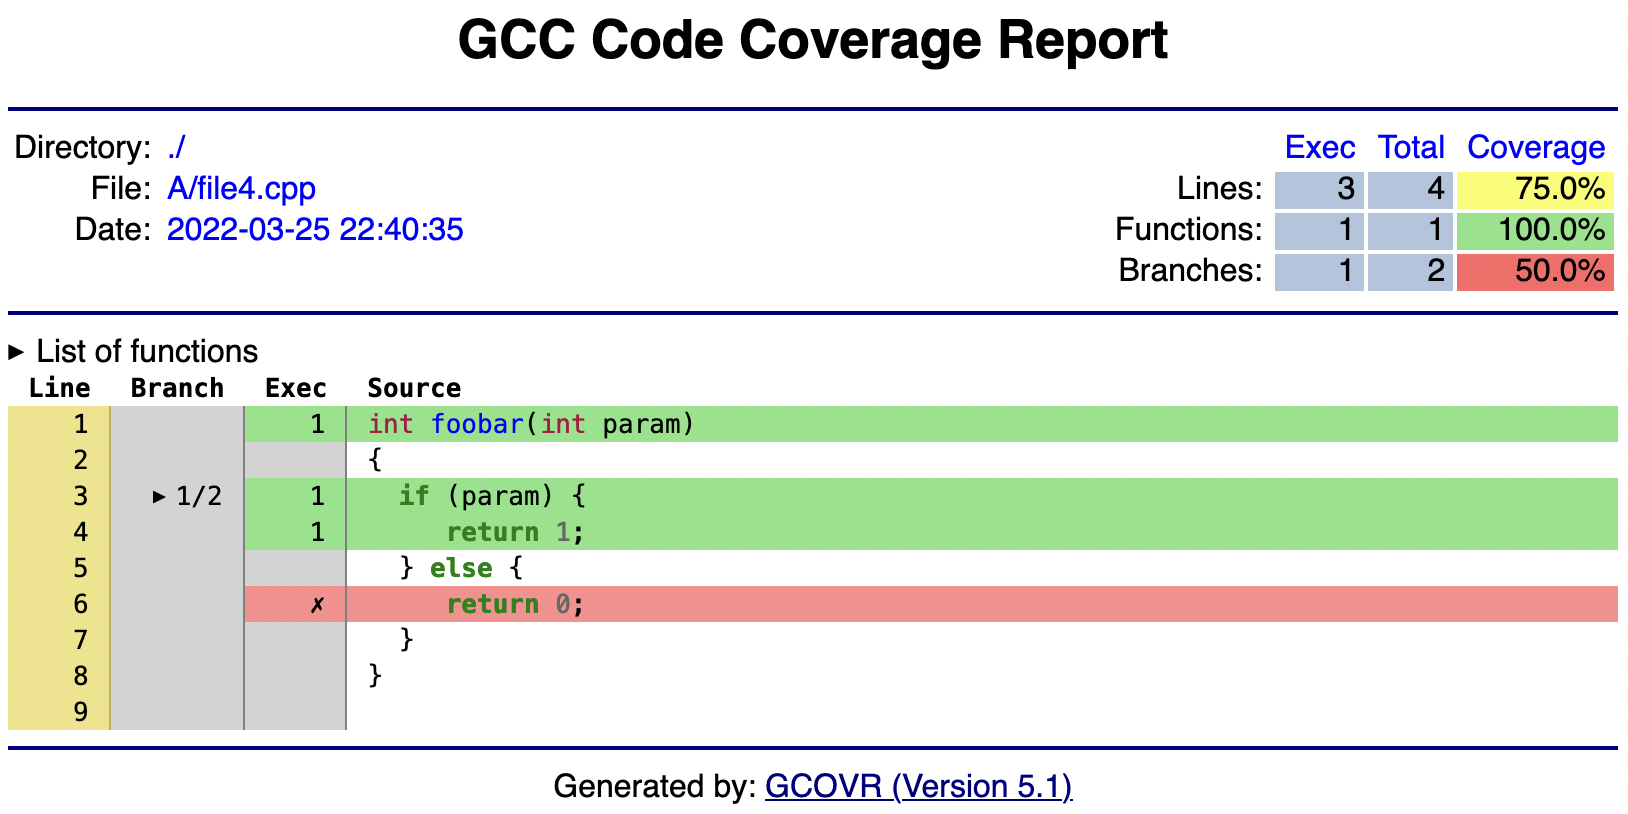
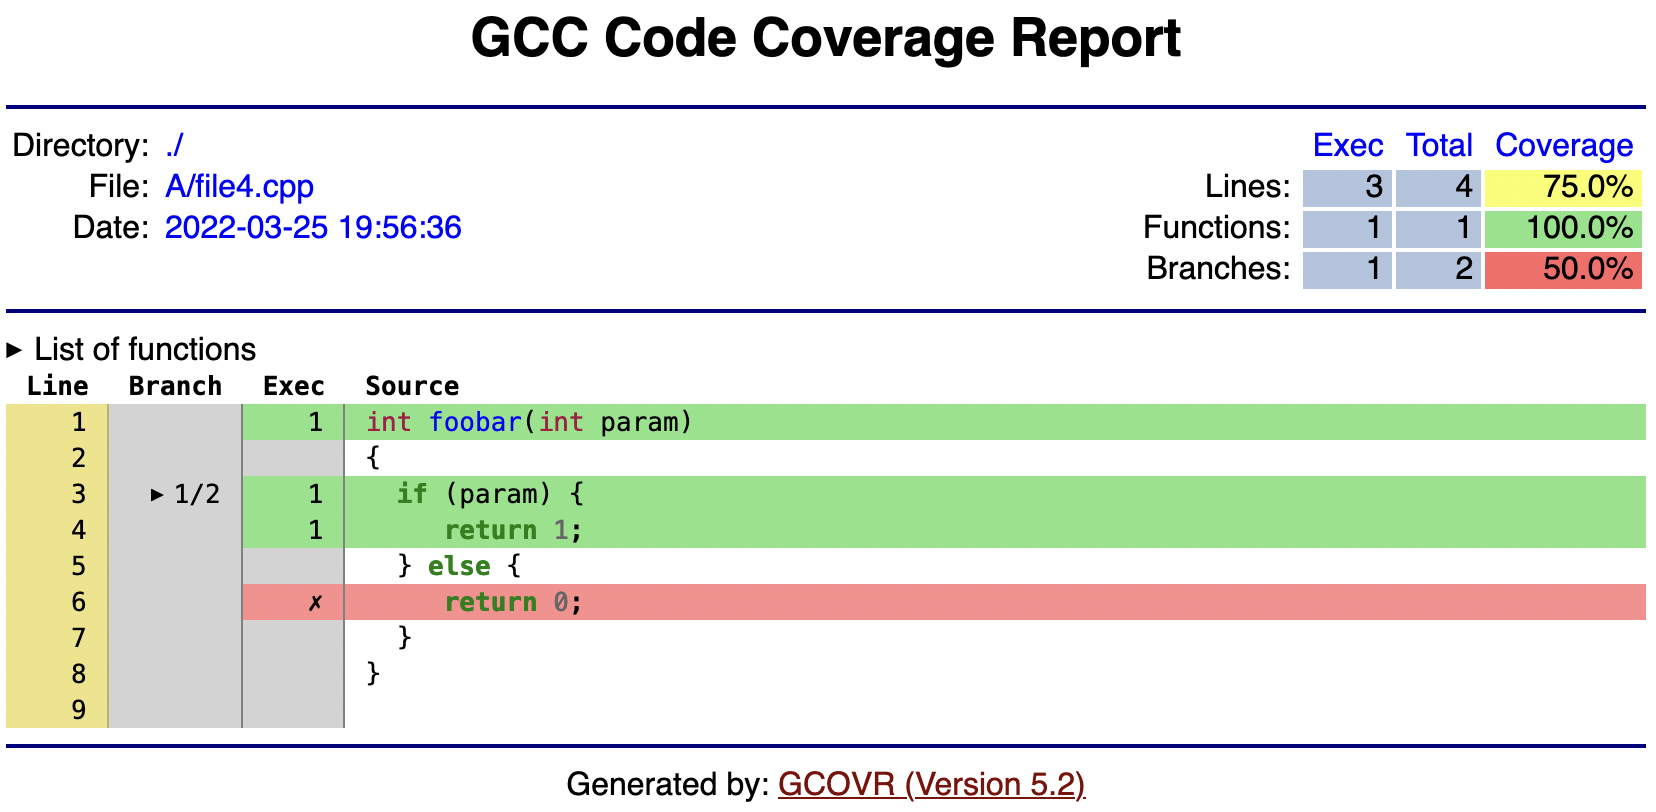
Bump version 5.2

diff --git a/doc/examples/example_html.details.html b/doc/examples/example_html.details.html
@@ -46,9 +46,9 @@
     </tr>
     <tr>
       <th scope="row">Lines:</th>
-      <td>6</td>
       <td>7</td>
-      <td class="coverage-medium">85.7%</td>
+      <td>8</td>
+      <td class="coverage-medium">87.5%</td>
     </tr>
     <tr>
       <th scope="row">Functions:</th>
@@ -93,10 +93,10 @@
       <a href="example_html.details.example.cpp.9597a7a3397b8e3a48116e2a3afb4154.html">example.cpp</a>
     </th>
     <td>
-      <meter class="coverage-medium" min="0" max="100" value="85.7" title="85.7%">85.7</meter>
+      <meter class="coverage-medium" min="0" max="100" value="87.5" title="87.5%">87.5</meter>
     </td>
-    <td class="CoverValue line-coverage coverage-medium">85.7%</td>
-    <td class="CoverValue line-coverage coverage-medium">6 / 7</td>
+    <td class="CoverValue line-coverage coverage-medium">87.5%</td>
+    <td class="CoverValue line-coverage coverage-medium">7 / 8</td>
     <td class="CoverValue function-coverage coverage-high">100.0%</td>
     <td class="CoverValue function-coverage coverage-high">2 / 2</td>
     <td class="CoverValue branch-coverage coverage-low">50.0%</td>
@@ -108,7 +108,7 @@
     </main>
 
     <footer>
-      Generated by: <a href="http://gcovr.com">GCOVR (Version 5.1)</a>
+      Generated by: <a href="http://gcovr.com">GCOVR (Version 5.2)</a>
     </footer>
   </body>
 </html>

diff --git a/doc/examples/example_html.details.example.cpp.9597a7a3397b8e3a48116e2a3afb4154.html b/doc/examples/example_html.details.example.cpp.9597a7a3397b8e3a48116e2a3afb4154.html
@@ -41,9 +41,9 @@
     </tr>
     <tr>
       <th scope="row">Lines:</th>
-      <td>6</td>
       <td>7</td>
-      <td class="coverage-medium">85.7%</td>
+      <td>8</td>
+      <td class="coverage-medium">87.5%</td>
     </tr>
     <tr>
       <th scope="row">Functions:</th>
@@ -217,8 +217,8 @@
       <td class="lineno"><a id="l13" href="#l13">13</a></td>
       <td class="linebranch">
       </td>
-      <td class="linecount "></td>
-      <td class="src "><span class="p">}</span></td>
+      <td class="linecount coveredLine">1</td>
+      <td class="src coveredLine"><span class="p">}</span></td>
     </tr>
 
     <tr class="source-line">
@@ -299,7 +299,7 @@
     </main>
 
     <footer>
-      Generated by: <a href="http://gcovr.com">GCOVR (Version 5.1)</a>
+      Generated by: <a href="http://gcovr.com">GCOVR (Version 5.2)</a>
     </footer>
   </body>
 </html>

diff --git a/doc/examples/example_html.details.functions.html b/doc/examples/example_html.details.functions.html
@@ -38,9 +38,9 @@
     </tr>
     <tr>
       <th scope="row">Lines:</th>
-      <td>6</td>
       <td>7</td>
-      <td class="coverage-medium">85.7%</td>
+      <td>8</td>
+      <td class="coverage-medium">87.5%</td>
     </tr>
     <tr>
       <th scope="row">Functions:</th>
@@ -105,7 +105,7 @@
     </main>
 
     <footer>
-      Generated by: <a href="http://gcovr.com">GCOVR (Version 5.1)</a>
+      Generated by: <a href="http://gcovr.com">GCOVR (Version 5.2)</a>
     </footer>
   </body>
 </html>

diff --git a/doc/examples/example_html.html b/doc/examples/example_html.html
@@ -676,7 +676,7 @@ span.linenos.special { color: #000000; background-color: #ffffc0; padding-left: 
     </main>
 
     <footer>
-      Generated by: <a href="http://gcovr.com">GCOVR (Version 5.1)</a>
+      Generated by: <a href="http://gcovr.com">GCOVR (Version 5.2)</a>
     </footer>
   </body>
 </html>

diff --git a/gcovr/tests/nested/reference/gcc-5/coverage.file4.cpp.9414ee61cc57b8771eb308d9925280d1.html b/gcovr/tests/nested/reference/gcc-5/coverage.file4.cpp.9414ee61cc57b8771eb308d9925280d1.html
@@ -184,7 +184,7 @@
     </main>
 
     <footer>
-      Generated by: <a href="http://gcovr.com">GCOVR (Version 5.0)</a>
+      Generated by: <a href="http://gcovr.com">GCOVR (Version 5.2)</a>
     </footer>
   </body>
 </html>

diff --git a/gcovr/tests/nested/reference/gcc-5/coverage.html b/gcovr/tests/nested/reference/gcc-5/coverage.html
@@ -220,7 +220,7 @@
     </main>
 
     <footer>
-      Generated by: <a href="http://gcovr.com">GCOVR (Version 5.1)</a>
+      Generated by: <a href="http://gcovr.com">GCOVR (Version 5.2)</a>
     </footer>
   </body>
 </html>

diff --git a/gcovr/merging.py b/gcovr/merging.py
@@ -2,16 +2,17 @@
 
 #  ************************** Copyrights and license ***************************
 #
-# This file is part of gcovr 5.1, a parsing and reporting tool for gcov.
+# This file is part of gcovr 5.2, a parsing and reporting tool for gcov.
 # https://gcovr.com/en/stable
 #
 # _____________________________________________________________________________
 #
 # Copyright (c) 2013-2022 the gcovr authors
 # Copyright (c) 2013 Sandia Corporation.
-# This software is distributed under the BSD License.
 # Under the terms of Contract DE-AC04-94AL85000 with Sandia Corporation,
 # the U.S. Government retains certain rights in this software.
+#
+# This software is distributed under the 3-clause BSD License.
 # For more information, see the README.rst file.
 #
 # ****************************************************************************

diff --git a/gcovr/gcov.py b/gcovr/gcov.py
@@ -2,14 +2,13 @@
 
 #  ************************** Copyrights and license ***************************
 #
-# This file is part of gcovr 5.1, a parsing and reporting tool for gcov.
+# This file is part of gcovr 5.2, a parsing and reporting tool for gcov.
 # https://gcovr.com/en/stable
 #
 # _____________________________________________________________________________
 #
 # Copyright (c) 2013-2022 the gcovr authors
 # Copyright (c) 2013 Sandia Corporation.
-
 # Under the terms of Contract DE-AC04-94AL85000 with Sandia Corporation,
 # the U.S. Government retains certain rights in this software.
 #

diff --git a/gcovr/version.py b/gcovr/version.py
@@ -2,7 +2,7 @@
 
 #  ************************** Copyrights and license ***************************
 #
-# This file is part of gcovr 5.1, a parsing and reporting tool for gcov.
+# This file is part of gcovr 5.2, a parsing and reporting tool for gcov.
 # https://gcovr.com/en/stable
 #
 # _____________________________________________________________________________
@@ -17,4 +17,4 @@
 #
 # ****************************************************************************
 
-__version__ = "5.1"
+__version__ = "5.2"

diff --git a/admin/bump_version.py b/admin/bump_version.py
@@ -4,7 +4,7 @@
 
 #  ************************** Copyrights and license ***************************
 #
-# This file is part of gcovr 5.1, a parsing and reporting tool for gcov.
+# This file is part of gcovr 5.2, a parsing and reporting tool for gcov.
 # https://gcovr.com/en/stable
 #
 # _____________________________________________________________________________

diff --git a/doc/examples/test_examples.py b/doc/examples/test_examples.py
@@ -2,7 +2,7 @@
 
 #  ************************** Copyrights and license ***************************
 #
-# This file is part of gcovr 5.1, a parsing and reporting tool for gcov.
+# This file is part of gcovr 5.2, a parsing and reporting tool for gcov.
 # https://gcovr.com/en/stable
 #
 # _____________________________________________________________________________

diff --git a/doc/source/conf.py b/doc/source/conf.py
@@ -2,7 +2,7 @@
 
 #  ************************** Copyrights and license ***************************
 #
-# This file is part of gcovr 5.1, a parsing and reporting tool for gcov.
+# This file is part of gcovr 5.2, a parsing and reporting tool for gcov.
 # https://gcovr.com/en/stable
 #
 # _____________________________________________________________________________
